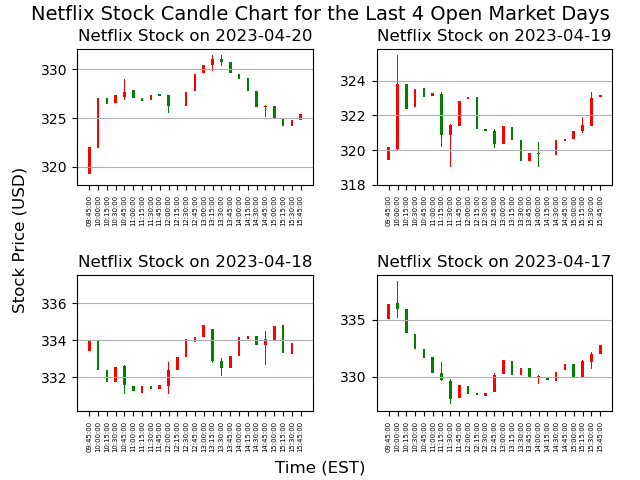
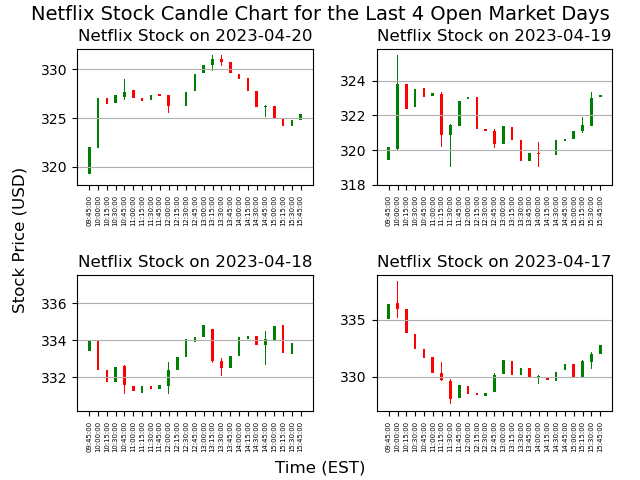
100% finished

diff --git a/analyze.py b/analyze.py
@@ -9,17 +9,18 @@ conn = sqlite3.connect(path+'/'+database_name)
 cur = conn.cursor()
 
 
-def make_stock_chart(conn, cur): 
+def make_stock_chart(cur): 
     # make candlestick chart
     # 4 days 1 - 4:
     # for each day date chart, JOIN stock chart on timeID = timeID, time dateID = date dateID WHERE date day = NUMBER:
-    # THEN make chart (1 of 4) and put it in a certain part.
-    
+    # THEN make chart (1 of 4) and put it in a certain part
+
+
     data = {}
     for day in range(1,5):
         cur.execute(f'''SELECT NetflixStocks.open, NetflixStocks.close, NetflixStocks.high, NetflixStocks.low, Times.datetime
         FROM NetflixStocks JOIN Times ON Times.timeID = NetflixStocks.timeID JOIN Date on Times.dateID = Date.dateID WHERE Date.dateID = {day}''')
-        open = []
+        _open = []
         close = []
         high = []
         low = []
@@ -27,21 +28,20 @@ def make_stock_chart(conn, cur):
         date = ''
         for row in cur:
             date = row[4][:10]
-            open.append(row[0])
+            _open.append(row[0])
             close.append(row[1])
             high.append(row[2])
             low.append(row[3])
             times.append(row[4][11:19])
-        data[date] = {'open': open, 'close': close, 'high': high, 'low': low}, times
+        data[date] = {'open': _open, 'close': close, 'high': high, 'low': low}, times
     dates = []
-    print(data)
     for day in data:
         dates.append(day)
     fig = plot.figure()
     for i in range(1, 5):
         ax = fig.add_subplot(2, 2, i)
-        col1 = 'red'
-        col2 = 'green'
+        col1 = 'green'
+        col2 = 'red'
         width = .3
         width2 = .03
         stocks_one = pandas.DataFrame(data[dates[i - 1]][0])
@@ -69,21 +69,123 @@ def make_stock_chart(conn, cur):
     
 
 
-def make_volatility_chart(conn, cur):
+def make_volatility_chart(cur, f):
     # make chart that records volatility of the tweets vs ABSOLUTE DIFFERENCE OF THE STOCKS OPEN AND CLOSE
     # use AVG function to get AVG tweets and compare amount of tweets to avg (absolute value)
     # make separate figure to split by days
+    data = {}
+
+    f.write('VOLATILITY CHART CALCULATIONS:\n')
+    f.write('\n')
+
+    for day in range(1, 5):
+        cur.execute(f'''SELECT SUM(NetflixTweets.tweets) FROM NetflixTweets JOIN Times ON NetflixTweets.timeID = Times.timeID 
+                        JOIN Date ON Times.dateID = Date.dateID WHERE Date.dateID = {day}''')
+        sum = int(cur.fetchone()[0])
+        f.write(f'Sum of tweets on {day} most recent day: {sum}\n')
+
+        # for opening (i-1 * 25 ) + 1
+        cur.execute(f'''SELECT NetflixStocks.open, Times.datetime FROM NetflixStocks JOIN Times ON
+                        NetflixStocks.timeID = Times.timeID WHERE NetflixStocks.timeID = {((day-1) * 25) + 1}''')
+        t = cur.fetchone()
+        day_open = t[0]
+        date = t[1][:10]
+        # for closing i * 25
+        cur.execute(f'''SELECT NetflixStocks.close FROM NetflixStocks WHERE NetflixStocks.timeID = {day * 25}''')
+        day_close = cur.fetchone()[0]
+
+        data[date] = [day_open, day_close, sum]
+    dates = []
+    for date in data:
+        dates.append(date)
+    
+
+
+    # First list is stock change, second list in twitter volatility, third list in times
+    dates = []
+    abs_change = []
+    sum = []
+    for day in data:
+        dates.append(day)
+        abs_change.append(500 * abs(round(data[day][0] - data[day][1], 2)))
+        sum.append(data[day][2])
+
+    fig = plot.figure()
+    x = range(1, 5)
+    ax = fig.add_subplot(111)
+    ax.plot(x, abs_change, label = 'Abs. Value of Stock Change')
+    ax.plot(x, sum, label = 'Tweet Count Volatility')
+    ax.legend(fontsize=6)
+    ax.set_xticks(range(4), dates, fontsize=5, rotation = 90)
+    
+    fig.tight_layout(pad=3.25)
+    fig.supxlabel('Date')
+    fig.supylabel('Scaled Stock Price Change (Absolute Val) \n and Total Number of Tweets')
+    fig.suptitle('Correlation Line Graph for Tweet \n Counts and Stock Price Changes', fontsize=14, y=0.99)
+    plot.savefig('Volatility.png')
+
     return
 
-def make_pos_neg_volatility_chart(conn, cur):
-    # same as above excpet no absolute value
-    return
 
-def create_charts(conn, cur):
-    make_stock_chart(conn, cur)
-    make_volatility_chart(conn, cur)
-    make_pos_neg_volatility_chart(conn, cur)
+def make_pos_neg_volatility_chart(cur, f):
+    # same as above except no absolute value
+    data = {}
+    f.write('\n')
+    f.write('CORRELATION CHART CALCULATIONS:\n')
+    f.write('\n')
+    for day in range(1, 5):
+        cur.execute(f'''SELECT AVG(NetflixTweets.tweets) FROM NetflixTweets JOIN Times ON NetflixTweets.timeID = Times.timeID 
+                        Join Date ON Times.dateID = Date.dateID WHERE Date.dateID = {day}''')
+        avg = int(cur.fetchone()[0])
+        f.write(f'Average amount of tweets for {day} most recent day: {avg}\n')
+        # needs stock open - stock close
+        stock_diff = []
+        # needs num tweets - avg
+        tweet_vol = []
+        # needs times
+        times = []
+
+        date = ''
+
+        cur.execute(f'''SELECT NetflixStocks.open, NetflixStocks.close, NetflixTweets.tweets, Times.datetime
+                    FROM NetflixStocks JOIN NetflixTweets ON NetflixStocks.timeID = NetflixTweets.timeID
+                    JOIN Times ON NetflixStocks.timeID = Times.timeID JOIN Date on Times.dateID = Date.dateID WHERE Date.dateID = {day}''')
+
+        for row in cur:
+            date = row[3][:10]
+            stock_diff.append(round(row[0] - row[1], 2) * 10)
+            tweet_vol.append(round(row[2] - avg, 2))
+            times.append(row[3][11:19])
+        data[date] = [stock_diff, tweet_vol, times]
+
+    # First list is stock change, second list in twitter volatility, third list in times
+    dates = []
+    for day in data:
+        dates.append(day)
+
+    fig = plot.figure()
+    x = range(1, 26)
+    for i in range(1, 5):
+        ax = fig.add_subplot(2, 2, i)
+        ax.plot(x, data[dates[i - 1]][0], label = 'Stock Change')
+        ax.plot(x, data[dates[i - 1]][1], label = 'Tweet Count Volatility')
+        ax.legend(fontsize=6)
+        times = data[dates[i - 1]][2]
+        ax.set_xticks(range(25), times, fontsize=5, rotation = 90)
+    
+    fig.tight_layout(pad=3.25)
+    fig.supxlabel('Time (EST)')
+    fig.supylabel('Scaled Stock Price Change and Difference \n Between Tweet Count and Tweet Average')
+    fig.suptitle('Correlation Line Graph for Tweet \n Counts and Stock Price Changes', fontsize=14, y=0.99)
+    plot.savefig('CorrelationGraph.png')
 
 
 
-make_stock_chart(conn, cur)
+def create_charts(cur):
+    f = open('calculations.txt', 'w')
+    make_stock_chart(cur)
+    make_volatility_chart(cur, f)
+    make_pos_neg_volatility_chart(cur, f)
+    f.close()
+
+create_charts(cur)

diff --git a/search.py b/search.py
@@ -200,7 +200,7 @@ def create_and_add_to_database(database_name):
         t += 1
     conn.commit()
 
-create_and_add_to_database('test.db')
+create_and_add_to_database('netflix.db')
 
     
     
